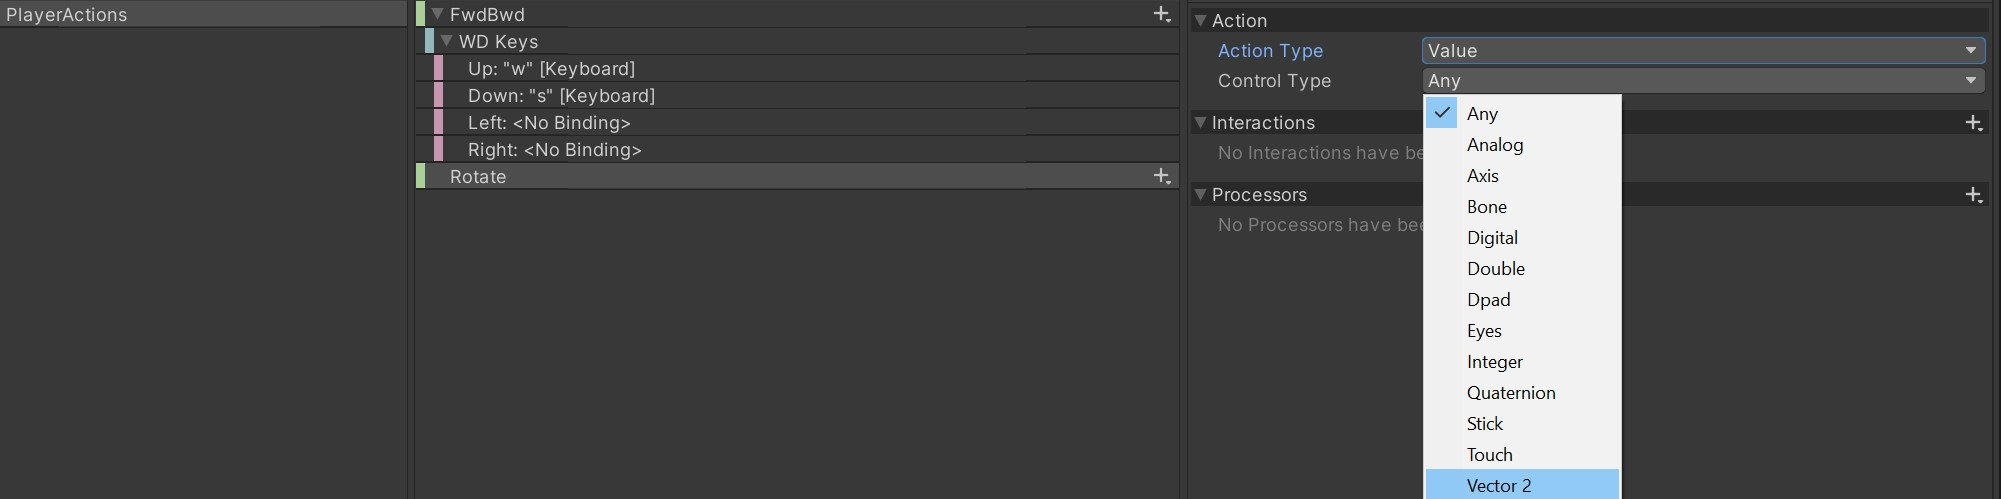
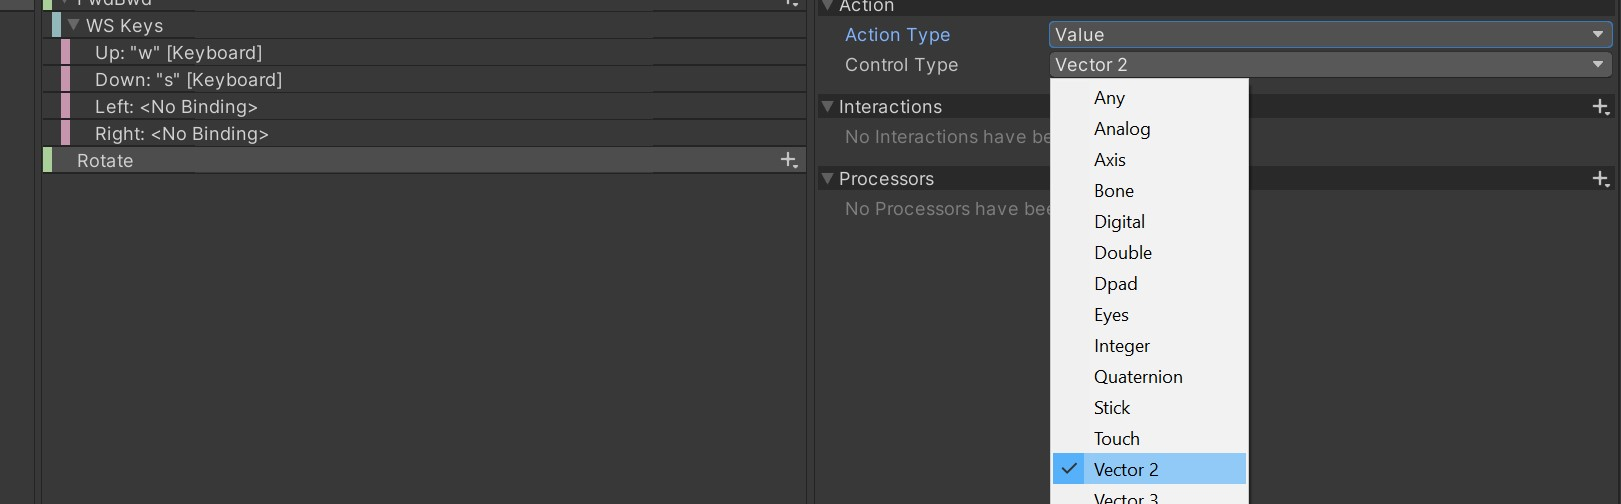
Cleaned up; first full working Quick Start Guide for Unity Input System

diff --git a/src/04-extend-motioninput-and-add-controller/MotionController.cs b/src/04-extend-motioninput-and-add-controller/MotionController.cs
@@ -1,0 +1,41 @@
+using System.Collections;
+using System.Collections.Generic;
+using UnityEngine;
+
+[AddComponentMenu("InputExample/" + nameof(MotionController))]
+[RequireComponent(typeof(MotionInput))]
+public class MotionController : MonoBehaviour
+{
+    [Header("Speed Factor for Forward / Backward - metres per second")]
+    public float _MotionSpeedPerSecond = 2.0f;
+
+    [Header("Rotational speed in degrees per second")]
+    public float _AngularSpeedPerSecond = 15f;
+
+    private MotionInput _Input;
+    private Transform _Transform;
+
+    void Start()
+    {
+        _Input = GetComponent<MotionInput>();
+        _Transform = GetComponent<Transform>();
+    }
+
+    void Update()
+    {
+        MoveForwardBackward();
+        RotateAroundYAxis();
+    }
+
+    private void MoveForwardBackward()
+    {
+        float zPosDelta = _Input._ForwardBackward.y * _MotionSpeedPerSecond * Time.deltaTime;
+        _Transform.Translate(0, 0, zPosDelta);
+    }
+
+    private void RotateAroundYAxis()
+    {
+        float angularDelta = _Input._AngularRotation.x * _AngularSpeedPerSecond * Time.deltaTime;
+        _Transform.Rotate(0, angularDelta, 0);
+    }
+}

diff --git a/documentation/04-extend-motioninput-and-add-controller.md b/documentation/04-extend-motioninput-and-add-controller.md
@@ -1,0 +1,191 @@
+# Extend MotionInput and Add MotionController
+
+This should not be as tedious as the previous page. The detail and images
+were necessary to help with the Input System Input Action asset and the
+tricks on how to configure this for two vector type inputs that make sense
+for motion. Now, let's go to the next step of making the Character move.
+
+## 1. I will setup a new source folder
+
+You don't need to do this, but I do this to show the difference from
+page 03, where we first create and debug the MotionInput component
+and to this page where we extend it and add a new component.
+
+I have copied the `MotionInput.cs` file to the new folder `04-extend-motioninput-and-add-controller`
+and changed the filename and the class name to `MotionInputExtended` so it is obvious
+and does not clash with the first example. C# files and classes must be unique
+in Unity (or be in a unique namespace).
+
+## 2. Create a C# source file for the MotionController
+
+By right clicking on the source folder in the Project window and select Create | C# Script,
+and give it the name `MotionController` and we will have a file with the standard Unity
+C# MonoBehaviour derived class template.
+
+## 3. Add Attributes to MotionController
+
+Like before, let's add some attributes:
+- `AddComponentMenu`
+- `RequireComponent`
+
+The class declaration should look like this now:
+
+```C#
+[AddComponentMenu("InputExample/" + nameof(MotionController))]
+[RequireComponent(typeof(MotionInput))]
+public class MotionController : MonoBehaviour
+```
+
+---------------------------------------
+
+NOTE: You might be wondering why I use the `nameof` operator on the class
+name instead of put the class name in the string. This makes it consistently
+refactor proof, if I rename the class.
+
+The `AddComponentMenu` attribute is not necessary but makes it so much easier
+to find your custom components and separates it from all the others.
+
+---------------------------------------
+
+## 4. Get a reference to MotionInputExtended
+
+The reason we made the `MotionInput` component required is to make sure that
+the Character will have both. The controller needs the input to change the position
+of the character to achieve motion.
+
+Add a private field for the motion input extended reference and initialize it in Start().
+We will do the same for the Transform component. Yes, every MonoBehaviour has a `transform`
+property but this code is terribly inefficient so I get a proper reference and cache it
+in a private reference. The body of the class now has the following.
+
+```C#
+  private MotionInput _Input;
+  private Transform _Transform;
+
+  void Start()
+  {
+      _Input = GetComponent<MotionInput>();
+      _Transform = GetComponent<Transform>();
+  }
+```
+
+## 5. Add some customizable speed multipliers
+
+I add two floats and give them headers that will appear in the inspector to explain
+their purpose. I insert these public values before the private references so the class
+body starts like this...
+
+```C#
+public class MotionController : MonoBehaviour
+{
+    [Header("Speed Factor for Forward / Backward - metres per second")]
+    public float _MotionSpeedPerSecond = 2.0f;
+
+    [Header("Rotational speed in degrees per second")]
+    public float _AngularSpeedPerSecond = 15f;
+
+    private MotionInputExtended _Input;
+```
+
+## 6. Make a method to update forward / backward translation
+
+We create a private method called `MoveForwardBackward` to multiply the forward/backword
+motion vector Y component from the `MotionInput` component with the `_MotionSpeedPerSecond` value
+and perform translation along the Z direction that the character is facing. We will
+also use `Time.deltaTime` to make motion smooth and to convert units from metres / frame to
+metres / second.
+
+Only the Y part of the vector is needed because the `w` and `s` keys only affect the
+Y component - Up and Down.
+
+We add a call to this method to the `Update()` method.
+
+```C#
+  void Update()
+  {
+      MoveForwardBackward();
+  }
+
+  private void MoveForwardBackward()
+  {
+      float zPosDelta = _Input._ForwardBackward.y * _MotionSpeedPerSecond * Time.deltaTime;
+      _Transform.Translate(0, 0, zPosDelta);
+  }
+```
+
+## 7. Add components to the Character
+
+Now our scene already has the `Player Input` and the `MotionInput` components from the previous
+debugging. Let's add the `MotionController` component to the Character and test it.
+
+In the Inspector click [Add Component] button | InputExample | MotionController
+
+You can tune the forward backward motion but the default value of 2 should be ok.
+Click Play and see what happens.
+
+![All the necessary components on the characer](./images/04--all-components-on-character.jpg)
+
+`MotionInput` will still be debugging - you can remove those lines of code if you like.
+
+If you try different values in the property for Motion Speed Per Second, in the Inspector, you
+should see the character speed change accordingly.
+
+While Playing, try changing the Y rotation in the Inspector Y rotation to test that
+the translation in Z is going to work in different cases as we rotate the character.
+
+![Rotate character 45 degrees in Y axis](./images/04--rotate-character-45-degs.jpg)
+
+In this image, I have the scene camera looking down from above. Rotating around the Y axis
+means it is looking 45 degress to its right. Now when pressing `W` and `S` we should see
+the character move forward or backward along the direction it is looking.
+
+## 8. Make a method to rotate the character around Y axis.
+
+Let's add the ability to rotate to the character...
+
+Create a private method called `RotateAroundYAxis` that will taking the X part of `_AngularRotation` vector from the `MotionInput` component and multiply it by the angular rotation
+speed and by `Time.deltaTime` so the motion is smooth and the speed is in the units 
+of degrees / second. We take this value and use the Transform's `Rotate` method to rotate around Y.
+
+We need to call this method from the `Update()` method.
+
+With the additional `RotateAroundYAxis` method the additional call in the `Update()` method,
+we end up with the following code snippet.
+
+```C#
+  void Update()
+  {
+      MoveForwardBackward();
+      RotateAroundYAxis();
+  }
+
+  private void MoveForwardBackward()
+  {
+      float zPosDelta = _Input._ForwardBackward.y * _MotionSpeedPerSecond * Time.deltaTime;
+      _Transform.Translate(0, 0, zPosDelta);
+  }
+
+  private void RotateAroundYAxis()
+  {
+      float angularDelta = _Input._AngularRotation.x * _AngularSpeedPerSecond * Time.deltaTime;
+      _Transform.Rotate(0, angularDelta, 0);
+  }
+```
+
+## 9. Debugging and Tuning
+
+When pressing Play, we see that the rotation speed is too slow - the default was only 15 degrees
+per second. Try changing this to 60 degrees per second in the Inspector and it will feel more
+responsive.
+
+![Set rotational speed to 60 degrees per second](./images/04--4.9-adjusting-rotational-speed.jpg)
+
+This is the advantage of making speed constants editable via the Inspector Window.
+
+--------------------------------------------------------
+
+The final source file for `MotionController` is in the `src` folder.
+See: [MotionController.cs](../src/04-extend-motioninput-and-add-controller/MotionController.cs)
+
+
+This is the end of the basic Quick Start.

diff --git a/documentation/00-getting-started.md b/documentation/00-getting-started.md
@@ -15,30 +15,54 @@ have a character to control and then create an Input Action asset
 to link input devices (say keyboard) to events and define the type
 of control (button, vector2 etc)...
 
-### Install Input System
+The sections below, numbered 1 and onwards, can be taken
+in turn or on their own as best suits your needs.
+
+--------------------------------------------------------
+
+### 1 - Install Input System
 
 First things first, make sure the Input System package is installed
-(if not already). See [01-installation.md](./installation.md) for
-an overview and link to Unity's installation guide - 
-that guide is OK.
+(if not already).
+
+See [01-installation.md](./installation.md) for
+an overview and link to Unity's installation guide - that guide is OK.
 
 Then choose one of the two starting points below.
 
-### Making a basic Character
+--------------------------------------------------------
+
+### 2 - Making a basic Character
 
 There are assets on the AssetStore for characters you could control.
+
 Let's assume for the moment you want to make something rough and learn a bit
 about setting up a scene in the process - that's what this is about.
+
 Follow the instructions in [02-make-scene-and-character.md](./02-make-scene-and-character.md)
 for detailed instructions on how to create a basic scene and
 character. It's not pretty but it's enough to start with.
 
-### Configuring Input Actions and debugging them
+--------------------------------------------------------
 
-You have a scene, now you need controller components and an Input Action asset that works with it.
-Go to the long instructions at [03-create-a-character-motioninput-component.md](./03-create-a-character-motioninput-component.md) to get the step-by-step
-Quick Start for a new asset and code to debug this asset. We will build on this.
+### 3 - Configuring Input Actions and debugging them
 
-### Configuring Input Events for a Character
+Let's figure out how the Input System Actions turn into events received in C# code.
+In this section we write a `MotionInput` controller and set up an Input Actions
+asset and debug it. It's a long one but it goes into the details of editing
+Input Actions.
 
-work-in-progress...
+Go to [03-create-a-character-motioninput-component.md](./03-create-a-character-motioninput-component.md)
+
+--------------------------------------------------------
+
+### 4 - Writing code that moves the character due to input values.
+
+In section 3, we figured out how to receive input events in code, from Actions.
+Here we write a `MotionController` component that works with the `MotionInput` component.
+
+Go to [04-extend-motioninput-and-add-controller.md](./04-extend-motioninput-and-add-controller.md)
+
+This completes the initial Quick Start and anything beyond this is an extension.
+
+

diff --git a/documentation/03-create-a-character-motioninput-component.md b/documentation/03-create-a-character-motioninput-component.md
@@ -271,9 +271,9 @@ So there are two steps to getting a useful Up binding:
 Click on the **+** pull-down menu at the right end of the row where
 `FwdBwd` Action - it has a `+` sign and a pull-down menu chevron.
 Select "Add 2D Composite Binding" from that menu and then give
-the binding the name "WD Keys."
+the binding the name "WS Keys."
 
-![Add 2D composite binding](./images/03--4.5-3-add-WD-binding.jpg)
+![Add 2D composite binding](./images/03--4.5-3-add-WS-binding.jpg)
 
 4. Define Up binding key
 
@@ -296,10 +296,10 @@ And now choose `w` key....
 
 ![use Path to select key](./images/03--4.5-4-Select-w-key.jpg)
 
-When done correctly, we see the `FwdBwd` Action has a `WD Keys`
+When done correctly, we see the `FwdBwd` Action has a `WS Keys`
 composite with Up bound to "w" from keyboard, like this:
 
-![w key bound](./images/03--4.4-w-key-defined.jpg)
+![w key bound](./images/03--4.5-w-key-defined.jpg)
 
 -----------------------------
 
@@ -311,7 +311,7 @@ key options.
 
 ![setting Down binding](./images/03--4.6-Setting-down-binding.jpg)
 
-Now the `FwdBwd` action should have a WD Keys composite with
+Now the `FwdBwd` action should have a `WS Keys` composite with
 2 configured bindings and 2 undefined - this is as-designed.
 
 ![Up and Down defined](./images/03--4.6--up-and-down-defined.jpg)
@@ -419,13 +419,13 @@ the action to a Vector2 Value Action / Control type.
 
 2. Call the new composite `AD Keys` to represent the left/right values
 
-3. Select the `Up: ` binding
+3. Select the `Left: ` binding
 
 4. Click on `Path` property and select the `a` key binding.
 
 ![Select 'A' key binding](./images/03--4.A-map-a-key-binding.jpg)
 
-5. Select the `Down: ` binding
+5. Select the `Right: ` binding
 
 6. Click on the `Path` property and select `d` key binding
 

diff --git a/README.md b/README.md
@@ -24,8 +24,11 @@ This is a step-by-step guide to go from zero to running with
 information on the way to help you extend and evolve your
 range of controls.
 
-The `documentation` folder has the guide.
-The `src` folder has related example source code.
+The `documentation` folder has the guide. See [Getting Started](./documentation/00-getting-started.md)
+
+The `src` folder has related example source code that is developed in the step-by-step instructions.
+
+-------------------------------------------------
 
 ## Recognition of Unity Trademarks
 
